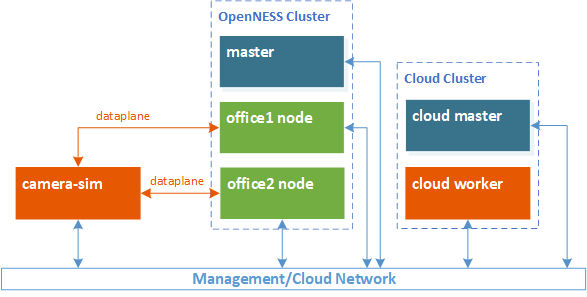
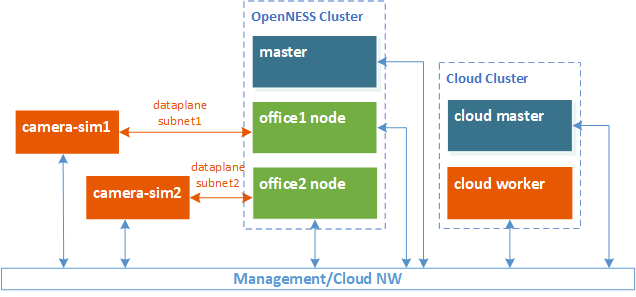
Update SmartCity onboarding instructions for 2 offices

Changed region(s): [[0.0, 0.0, 0.9199, 0.9697], [0.9506, 0.4242, 0.9813, 0.9091]]

diff --git a/doc/applications-onboard/network-edge-applications-onboarding.md b/doc/applications-onboard/network-edge-applications-onboarding.md
@@ -417,7 +417,7 @@ Smart City sample application is a sample applications that is built on top of t
 
 The full pipeline of the Smart City sample application on OpenNESS is distributed across three regions:
 
- 1. Client-side Cameras Simulator
+ 1. Client-side Cameras Simulator(s)
  2. OpenNESS Cluster
  3. Smart City Cloud Cluster
 
@@ -456,26 +456,35 @@ kubectl interfaceservice get <edge_node_host_name>
 
 ## Building Smart City ingredients
 
-   1. Clone the Smart City Reference Pipeline source code from [GitHub](https://github.com/OpenVisualCloud/Smart-City-Sample.git) to: (1) Camera simulator machine, (2) OpenNESS Controller machine, and (3) Smart City cloud master machine.
+   1. Clone the Smart City Reference Pipeline source code from [GitHub](https://github.com/OpenVisualCloud/Smart-City-Sample.git) to: (1) Camera simulator machines, (2) OpenNESS Controller machine, and (3) Smart City cloud master machine.
 
-   2. Build the Smart City application on each of the 3 machines as explained in [Smart City deployment on OpenNESS](https://github.com/OpenVisualCloud/Smart-City-Sample/tree/openness-k8s/deployment/openness). At least 2 offices must be installed on OpenNESS.
+   2. Build the Smart City application on all of the machines as explained in [Smart City deployment on OpenNESS](https://github.com/OpenVisualCloud/Smart-City-Sample/tree/openness-k8s/deployment/openness). At least 2 offices (edge nodes) must be installed on OpenNESS.
 
 ## Running Smart City
 
-   1. On the Camera simulator machine, assign IP address to the ethernet interface which the dataplane traffic will be transmitted through to the edge office1 node:
-       ```shell
-       ip a a 192.168.1.10/24 dev <office1_interface_name>
-       route add -net 10.16.0.0/24 gw 192.168.1.1 dev <office_interface_name>
-       ```
+   1. On the Camera simulator machines, assign IP address to the ethernet interface which the dataplane traffic will be transmitted through to the edge office1 & office2 nodes:
+   
+      On camera-sim1:
+      ```shell
+      ip a a 192.168.1.10/24 dev <office1_interface_name>
+      route add -net 10.16.0.0/24 gw 192.168.1.1 dev <office1_interface_name>
+      ```
 
-      > **NOTE:** When adding office 2 and so on, change the provided CIDR (i.e: `192.168.1.0/24`) to its allocated subnet. This can be checked by entering this command:
-      >  ```shell
-      >  kubectl get subnets
-      >  ```
+      > **NOTE:** When adding office 2 and so on, change the provided CIDR (i.e: `192.168.1.0/24`) to its allocated subnet. This requires a  This can be checked by entering this command:
+      > ```shell
+      > kubectl get subnets
+      > ```
       >
       > The subnet name represents the node which is allocated to it and appended with `-local`.
 
-   2. On the Camera simulator machine, run the camera simulator containers
+      On camera-sim2:
+      > To send traffic 
+      > ```shell
+      > ip a a 192.168.2.10/24 dev <office2_interface_name>
+      > route add -net 10.16.0.0/24 gw 192.168.2.1 dev <office2_interface_name>
+      > ```
+
+   2. On the Camera simulator machines, run the camera simulator containers
       ```shell
       make start_openness_camera
       ```
@@ -485,7 +494,7 @@ kubectl interfaceservice get <edge_node_host_name>
        make start_openness_cloud
        ```
 
-       > **NOTE**: At the time of writing this guide, there was no firewall rules defined for the Camera simulator & Smart City cloud containers. If none is defined, firewall must be stopped or disabled before continuing. All communication back to the office nodes will be blocked. Run the below on both machines.
+       > **NOTE**: At the time of writing this guide, there was no firewall rules defined for the camera simulators & Smart City cloud containers. If none is defined, firewall must be stopped or disabled before continuing. All communication back to the office nodes will be blocked. Run the below on both machines.
        > ```shell
        > systemctl stop firewalld
        > ```
@@ -494,7 +503,7 @@ kubectl interfaceservice get <edge_node_host_name>
 
    4. On the OpenNESS Controller machine, build & run the Smart City cloud containers
        ```shell
-       export CAMERA_HOST=192.168.1.10
+       export CAMERA_HOSTS=192.168.1.10,192.168.2.10
        export CLOUD_HOST=<cloud-master-node-ip>
 
        make
